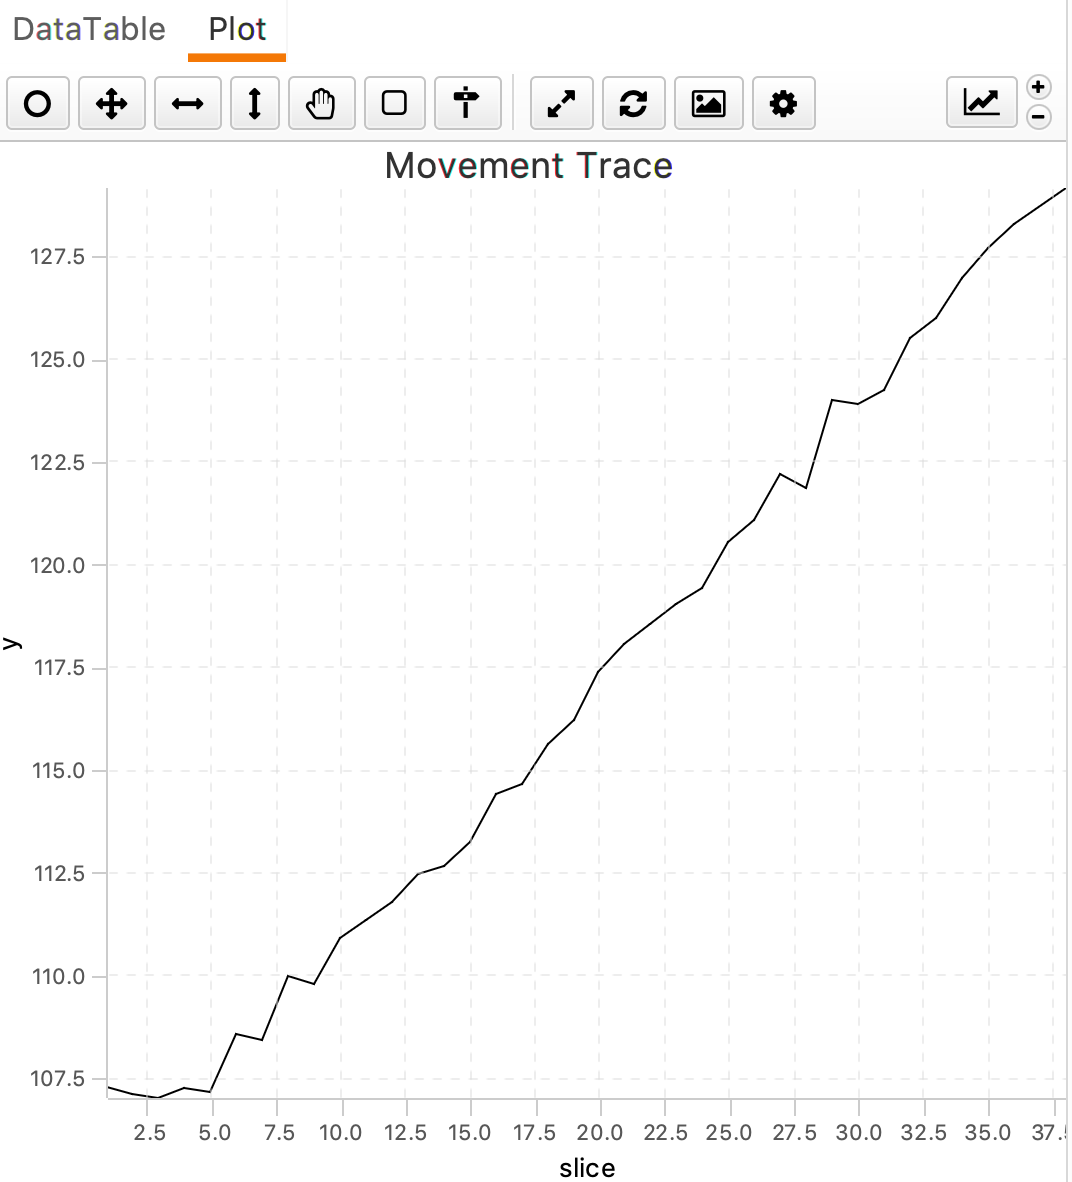
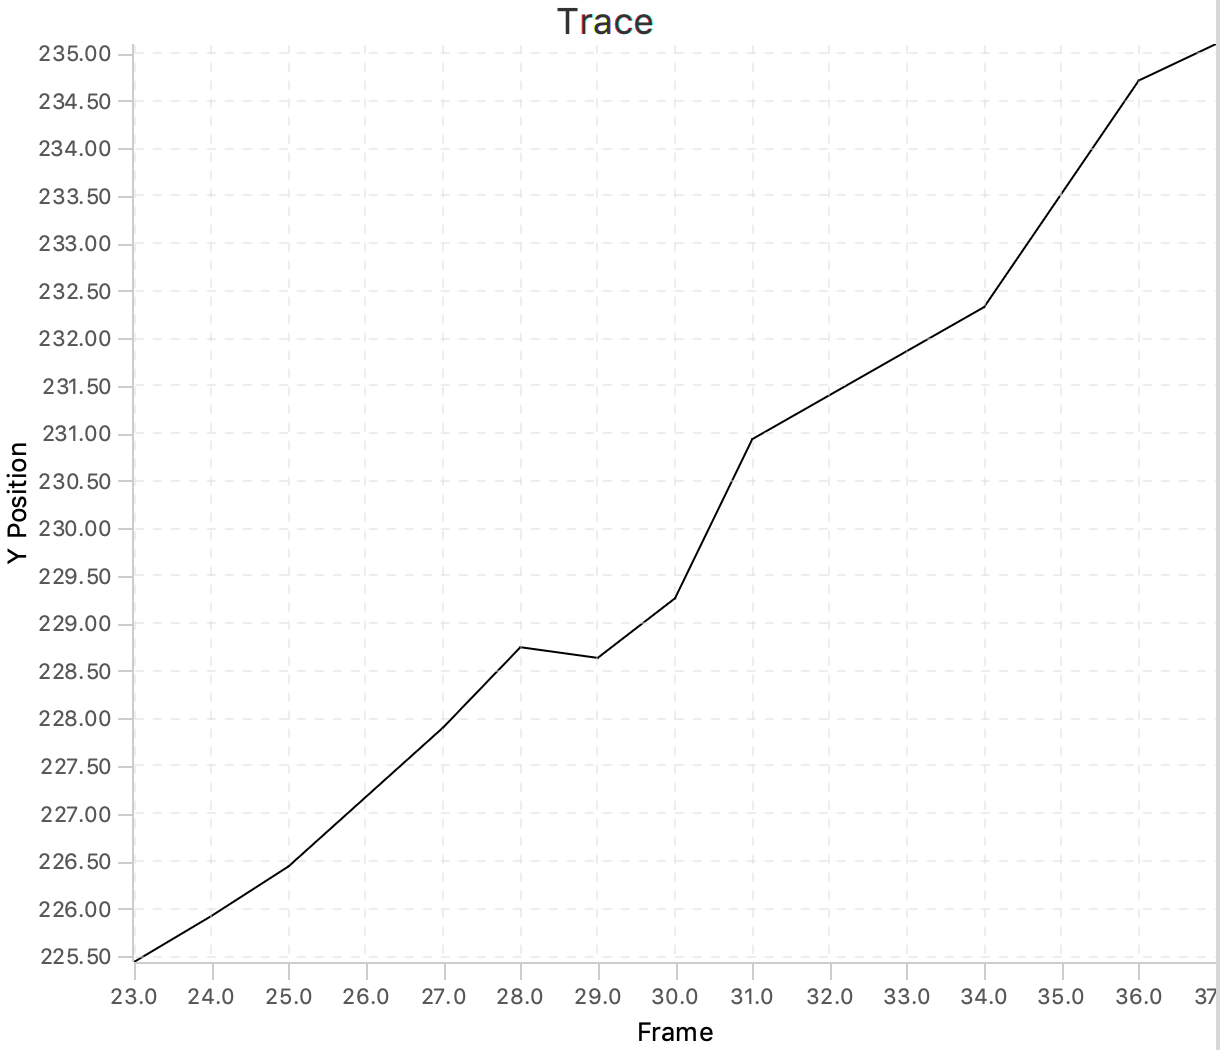
updates

diff --git a/tutorials/WorkingWithMars/create-a-molecule-archive.md b/tutorials/WorkingWithMars/create-a-molecule-archive.md
@@ -10,10 +10,7 @@ In this tutorial we will go through the basics of loading a video, finding
 and tracking peaks, navigating through **Mars Rover**, looking at the traces
 corresponding to the tracked peaks, tagging them and saving the result as a **Molecule Archive** (.yama) file. In the example video that is used the transcription movement of fluorescently labeled polymerase over DNA is investigated by means of TIRF microscopy. The DNA itself is not labeled and therefore is not visible in the video. This single-molecule dataset provides an excellent way to familiarise yourself with **Mars** and the most important plugins.
 
-<div style="text-align: center"><img  src='{{site.baseurl}}/tutorials/img/TCreateMoleculeArchive/img23.png' width='450'/></div>
-
-
-<img align='center' src='{{site.baseurl}}/tutorials/img/TCreateMoleculeArchive/img23.png' width='450' />  
+<div style="text-align: center"><img  src='{{site.baseurl}}/tutorials/img/TCreateMoleculeArchive/img23.png' width='450'/></div>  
 _Figure 1: Schematic representation of the experiment. The DNA molecule is represented as a blue line, and the DNA polymerase as a fluorescently green dot. In the actual experiment the DNA is not fluorescently labeled and hence not visible._
 
 ### 1. Import a video in Fiji
@@ -21,9 +18,6 @@ Open the example dataset ['TestVideo.tif'](https://github.com/duderstadt-lab/mar
 
 <div style="text-align: center"><img  src='{{site.baseurl}}/tutorials/img/TCreateMoleculeArchive/img1.png' width='450'/></div>
 <div style="text-align: center"><img  src='{{site.baseurl}}/tutorials/img/TCreateMoleculeArchive/img2.png' width='450'/></div>
-
-<img align='center' src='{{site.baseurl}}/tutorials/img/TCreateMoleculeArchive/img1.png' width='450' />
-<img align='center' src='{{site.baseurl}}/tutorials/img/TCreateMoleculeArchive/img2.png' width='450' />
 
 
 __Background Information:__  
@@ -39,14 +33,13 @@ photobleached over time.
 
 
 ### 2. Use peak tracker to track peaks through frames
-Now, open the "Peak Tracker" tool from **Mars** as shown and enter all settings. Providing the correct settings makes sure that the tracker can find the peaks correctly. For more information about these parameters visit the [documentation page](https://duderstadt-lab.github.io/mars-docs/docs/image/PeakTracker/).
+Now, open the "Peak Tracker" tool from **Mars** as shown and enter all settings as displayed in the screenshots below. Providing the correct settings makes sure that the tracker can find the peaks correctly. For more information about these parameters visit the [documentation page](https://duderstadt-lab.github.io/mars-docs/docs/image/PeakTracker/).
 
 
-<img align='center' src='{{site.baseurl}}/tutorials/img/TCreateMoleculeArchive/img10.png' width='450' />
+<div style="text-align: center"><img  src='{{site.baseurl}}/tutorials/img/TCreateMoleculeArchive/img10.png' width='450'/></div>
 
-
-<img align='center' src='{{site.baseurl}}/tutorials/img/TCreateMoleculeArchive/img11.png' width='250' />  
-<img align='center' src='{{site.baseurl}}/tutorials/img/TCreateMoleculeArchive/img12.png' width='250' />
+<div style="text-align: center"><img  src='{{site.baseurl}}/tutorials/img/TCreateMoleculeArchive/img11.png' width='250'/></div>  
+<div style="text-align: center"><img  src='{{site.baseurl}}/tutorials/img/TCreateMoleculeArchive/img12.png' width='250'/></div>
 
 
 Press OK to run the tracking plugin.
@@ -55,59 +48,54 @@ Press OK to run the tracking plugin.
 ### 3. Navigating through Mars Rover
 
 The GUI automatically opens on the desktop page. In this overview page one can
-see information on the dataset, and get some statistical data. More statistical
+see information on the dataset (press the i button), and get some statistical data. More statistical
 data will become available when the data is analysed in the next steps.
 
-
-<img align='center' src='{{site.baseurl}}/tutorials/img/TCreateMoleculeArchive/img14.png' width='450' />
-
+<div style="text-align: center"><img  src='{{site.baseurl}}/tutorials/img/TCreateMoleculeArchive/img14.png' width='450'/></div>  
 
 By using the tabs on the left, the data can be accessed.
 Click on the microscope icon to reveal the Metadata and Analysis log. Next to this, the ID in the left frame shows from which experiment number the data in this set originates. This number is unique for each measurement to make sure filtered data can always be traced back to the correct experiment, even when data from experiments are merged. The OME tab shows the frame numbers and the corresponding relative time when the slide was recorded. Click on each frame to display more detailed information in the middle planes.
 
-<img align='center' src='{{site.baseurl}}/tutorials/img/TCreateMoleculeArchive/img15.png' width='450' />
+
+<div style="text-align: center"><img  src='{{site.baseurl}}/tutorials/img/TCreateMoleculeArchive/img15.png' width='450'/></div>  
 
 Next, open the molecule tab. This tab reveals a table with all molecules found.
-Each molecule is assigned an universally unique identifier (UUID) by which the molecule can be easily traced back after analysis. Click on an UID to see the corresponding data in the adjacent "Table". This table shows the coordinates and intensity corresponding to the tracked peak over different slides. Note that each time "Peak Tracker" is run, a new UID will be assigned to the tracked molecule.
+Each molecule is assigned an universally unique identifier (UUID) by which the molecule can be easily traced back after analysis. Click on an UUID to see the corresponding data in the adjacent "Table". This table shows the coordinates and intensity corresponding to the tracked peak over different slides. Note that each time "Peak Tracker" is run, a new UUID will be assigned to the tracked molecule.
 
-<img align='center' src='{{site.baseurl}}/tutorials/img/TCreateMoleculeArchive/img16.png' width='450' />
+
+<div style="text-align: center"><img  src='{{site.baseurl}}/tutorials/img/TCreateMoleculeArchive/img16.png' width='450'/></div>  
 
 
 ### 4. Plotting traces
-Next to the automatically opened 'Table' tab, there is a tab called 'Plot'. Switch to the Plot tab now to plot the data points.
+Alongside the data 'Table' in the molecule tab in Rover there is a tab called 'Plot'. Switch to this tab to plot the data corresponding to the selected molecule to visualise its tracked movement.  
 
-In the top left corner, click on the plotting icon. This opens a menu that can be used to modify the plot. In this case, the settings shown make
-a line plot of the y position versus the slice number. In this dataset that corresponds with the direction of transcription over the DNA. Press the refresh button in the right corner of the menu to show the graph.
+In the top right corner, click on the plotting icon. This opens a menu that can be used to modify the plot. In this case, the settings shown make a line plot of the y position versus the frame (T). In this dataset that corresponds with the direction of transcription over the DNA plotted as a function of the time. Press the refresh button in the right corner of the menu to show the graph.
 
-
-<img align='center' src='{{site.baseurl}}/tutorials/img/TCreateMoleculeArchive/img17.png' width='450' />
-
-Now a plot is obtained showing the vertical displacement of the peak versus the slice number of the experiment: it shows the position of this single polymerase on the DNA molecule.
-
-<img align='center' src='{{site.baseurl}}/tutorials/img/TCreateMoleculeArchive/img18.png' width='250' />
+<div style="text-align: center"><img  src='{{site.baseurl}}/tutorials/img/TCreateMoleculeArchive/img17.png' width='450'/></div>
 
 Move through the UUIDs on the left to show the plot for every molecule. As will become apparent, some molecules show a trace in which the y position almost linearly changes with the frame number. These are the molecules that are
 relevant for this dataset since they correspond to a polymerase that
-transcribes the DNA with a uniform speed. Below is an example of such a molecule.
+transcribes the DNA with a uniform speed. Below is an example of such a molecule. In total, this example dataset contains 10 molecules that we consider to be 'Active'. In the next section these molecules are tagged to allow for easy filtering.
 
-<img align='center' src='{{site.baseurl}}/tutorials/img/TCreateMoleculeArchive/img19.png' width='250' />
+<div style="text-align: center"><img  src='{{site.baseurl}}/tutorials/img/TCreateMoleculeArchive/img19.png' width='250'/></div>
+
 
 ### 5. Tagging data
 
 When interesting molecules in the data have been found, one can easily tag them
-for later reference. For now the tag name "Active" is used to filter for polymerase active molecules in further analysis. Write 'Active' in the Tag window on the right and press enter. If this is done correctly, a grey marked tag will show up as shown in the screenshot below. Move through all UIDs and select all molecules fulfilling the criteria in this way.
+for later reference. For now the tag name "Active" is used to filter for polymerase active molecules in further analysis. Write 'Active' in the Tag window on the right and press enter. If this is done correctly, a grey marked tag will show up as shown in the screenshot below. Move through all UUIDs and select all molecules fulfilling the criteria in this way.
 
-<img align='center' src='{{site.baseurl}}/tutorials/img/TCreateMoleculeArchive/img20.png' width='450' />
+<div style="text-align: center"><img  src='{{site.baseurl}}/tutorials/img/TCreateMoleculeArchive/img20.png' width='450'/></div>
 
-After going through the entire dataset, go back to the desktop page of **Mars Rover**. After refreshing the "tag plot" the amount of molecules per tag is displayed.
+After going through the entire dataset, go back to the desktop page of **Mars Rover**. Open the widget with the tag icon, refresh with the refresh button. The 'tag plot' now shows the amount of molecules that were tagged with a certain tag.  
 
-<img align='center' src='{{site.baseurl}}/tutorials/img/TCreateMoleculeArchive/img22.png' width='450' />
+<div style="text-align: center"><img  src='{{site.baseurl}}/tutorials/img/TCreateMoleculeArchive/img22.png' width='450'/></div>
 
 ### 6. Saving the MoleculeArchive
 
 The archive can be saved as a .yama file by selecting the save option. Now the data can be further analysed and plotted using Python. If you are interested in that, please continue with the [tutorial on Molecule Archive data handling in Python](https://duderstadt-lab.github.io/mars-docs/tutorials/marsto/open-a-Molecule-Archive-in-Python/)
 
-<img align='center' src='{{site.baseurl}}/tutorials/img/TCreateMoleculeArchive/img21.png' width='200' />
+<div style="text-align: center"><img  src='{{site.baseurl}}/tutorials/img/TCreateMoleculeArchive/img21.png' width='200'/></div>
 
 
 For more detailed information about all functions in **Mars Rover** please visit the [documentation page.](https://duderstadt-lab.github.io/mars-docs/docs/)
